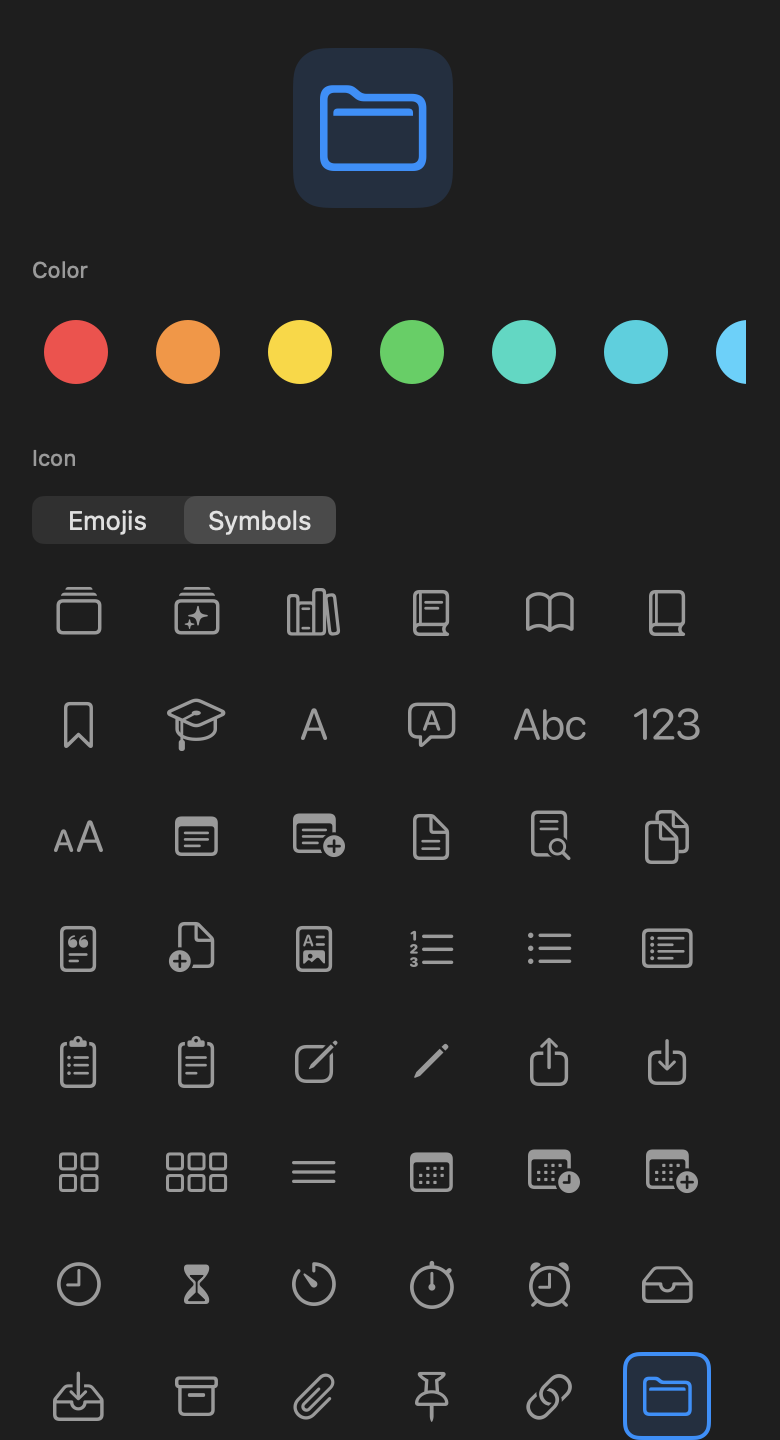
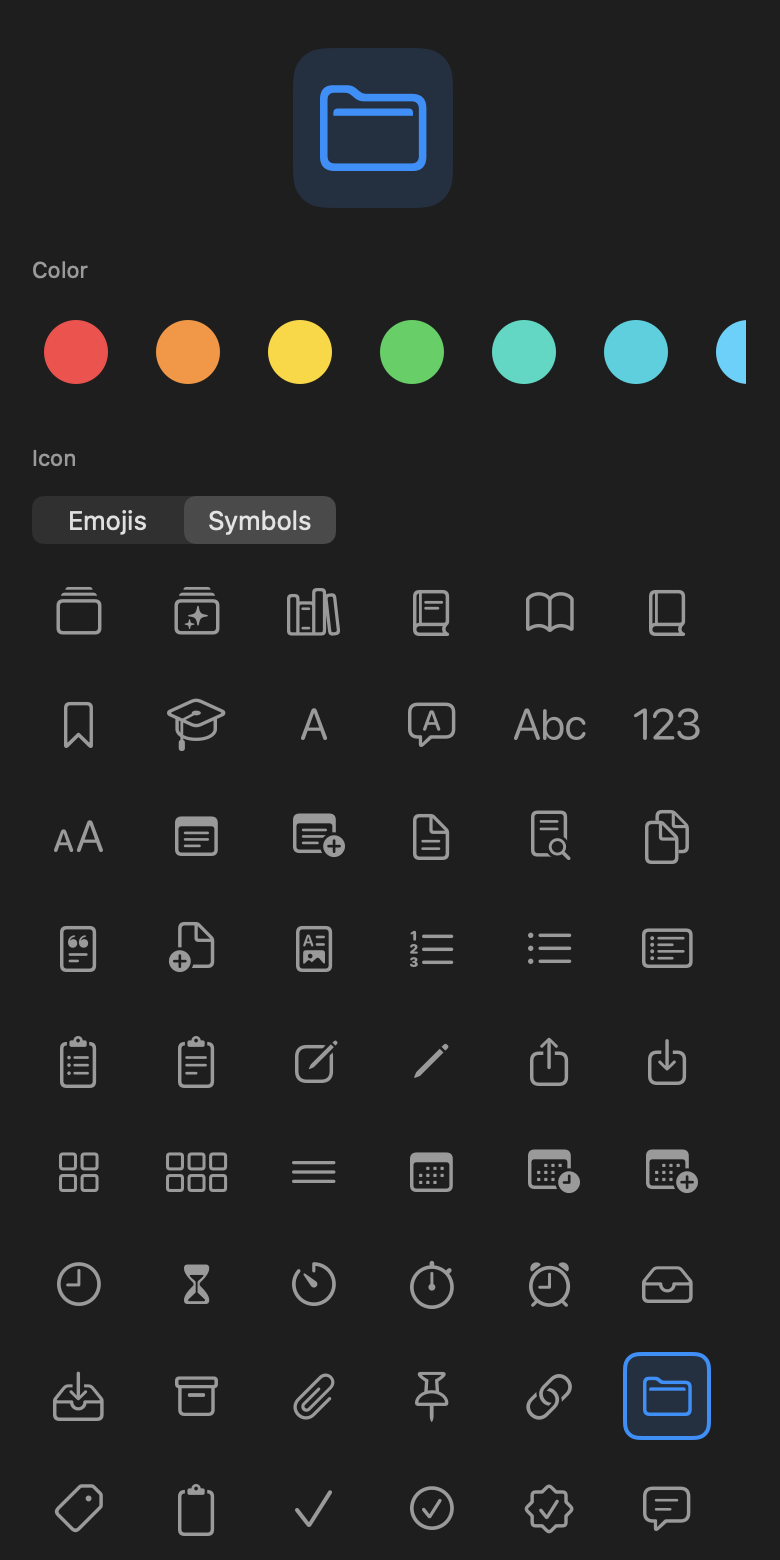
docs: regenerate picker stills
Taller IconPickerView frames so another row of symbols is visible.

diff --git a/Sources/GenerateMedia/GenerateMedia.swift b/Sources/GenerateMedia/GenerateMedia.swift
@@ -16,12 +16,12 @@ struct GenerateMedia {
 
         try write(
             ViewShot(scheme: .light),
-            size: CGSize(width: 390, height: 720),
+            size: CGSize(width: 390, height: 780),
             appearance: .aqua,
             to: out.appending(path: "iconpickerkit-view-light.png"))
         try write(
             ViewShot(scheme: .dark),
-            size: CGSize(width: 390, height: 720),
+            size: CGSize(width: 390, height: 780),
             appearance: .darkAqua,
             to: out.appending(path: "iconpickerkit-view-dark.png"))
         try write(
@@ -94,8 +94,16 @@ private struct ViewShot: View {
     let scheme: ColorScheme
 
     var body: some View {
-        IconPickerView(icon: self.$icon, color: self.$color)
-            .preferredColorScheme(self.scheme)
+        NavigationStack {
+            IconPickerView(icon: self.$icon, color: self.$color)
+                .navigationTitle("Icon")
+                .toolbar {
+                    ToolbarItem(placement: .confirmationAction) {
+                        Button("Done") {}
+                    }
+                }
+        }
+        .preferredColorScheme(self.scheme)
     }
 }
 
